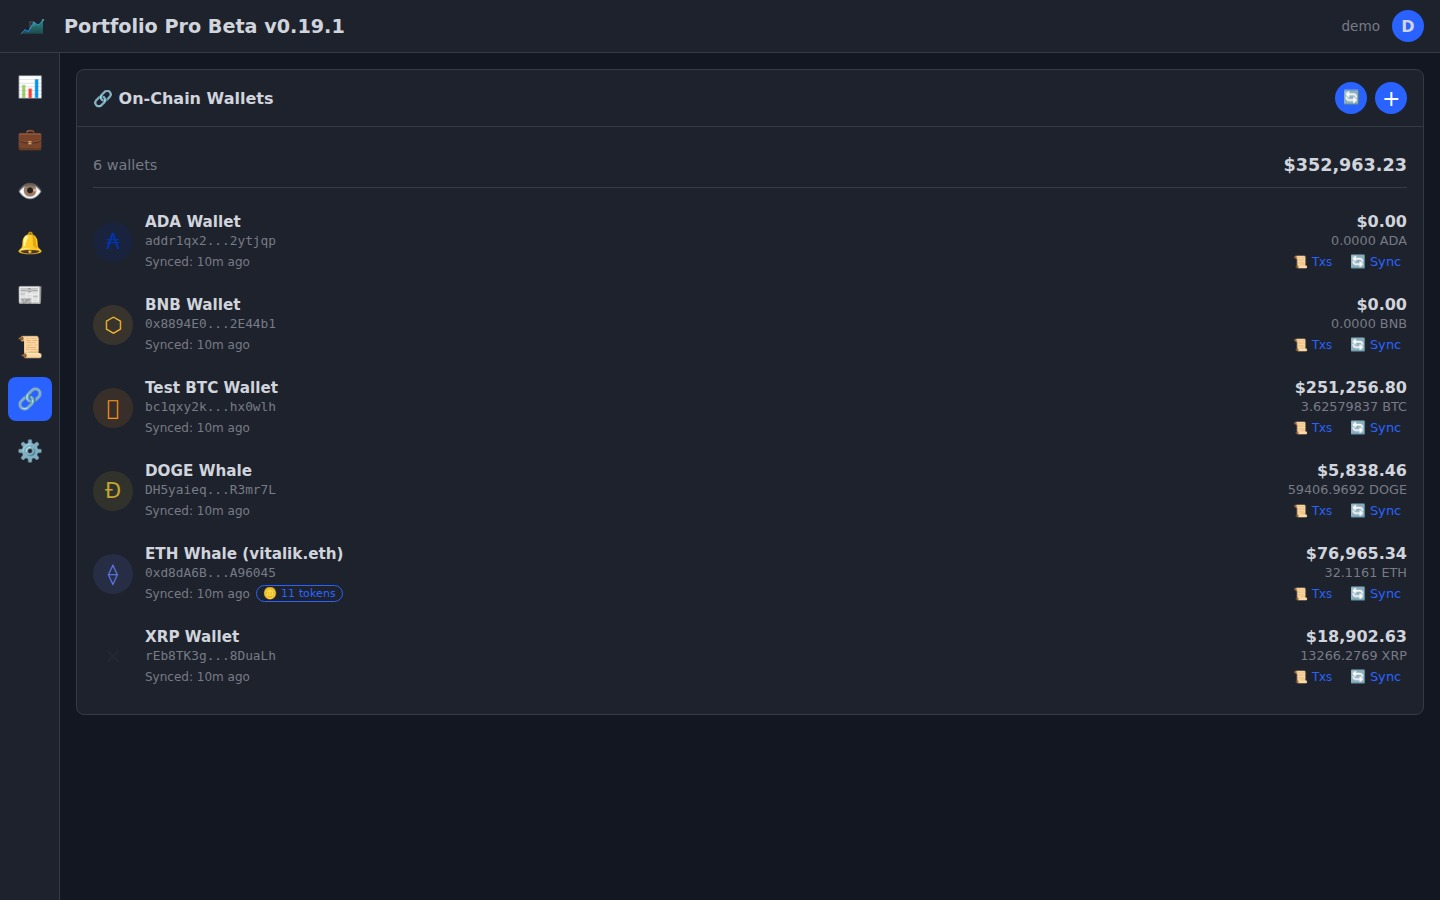
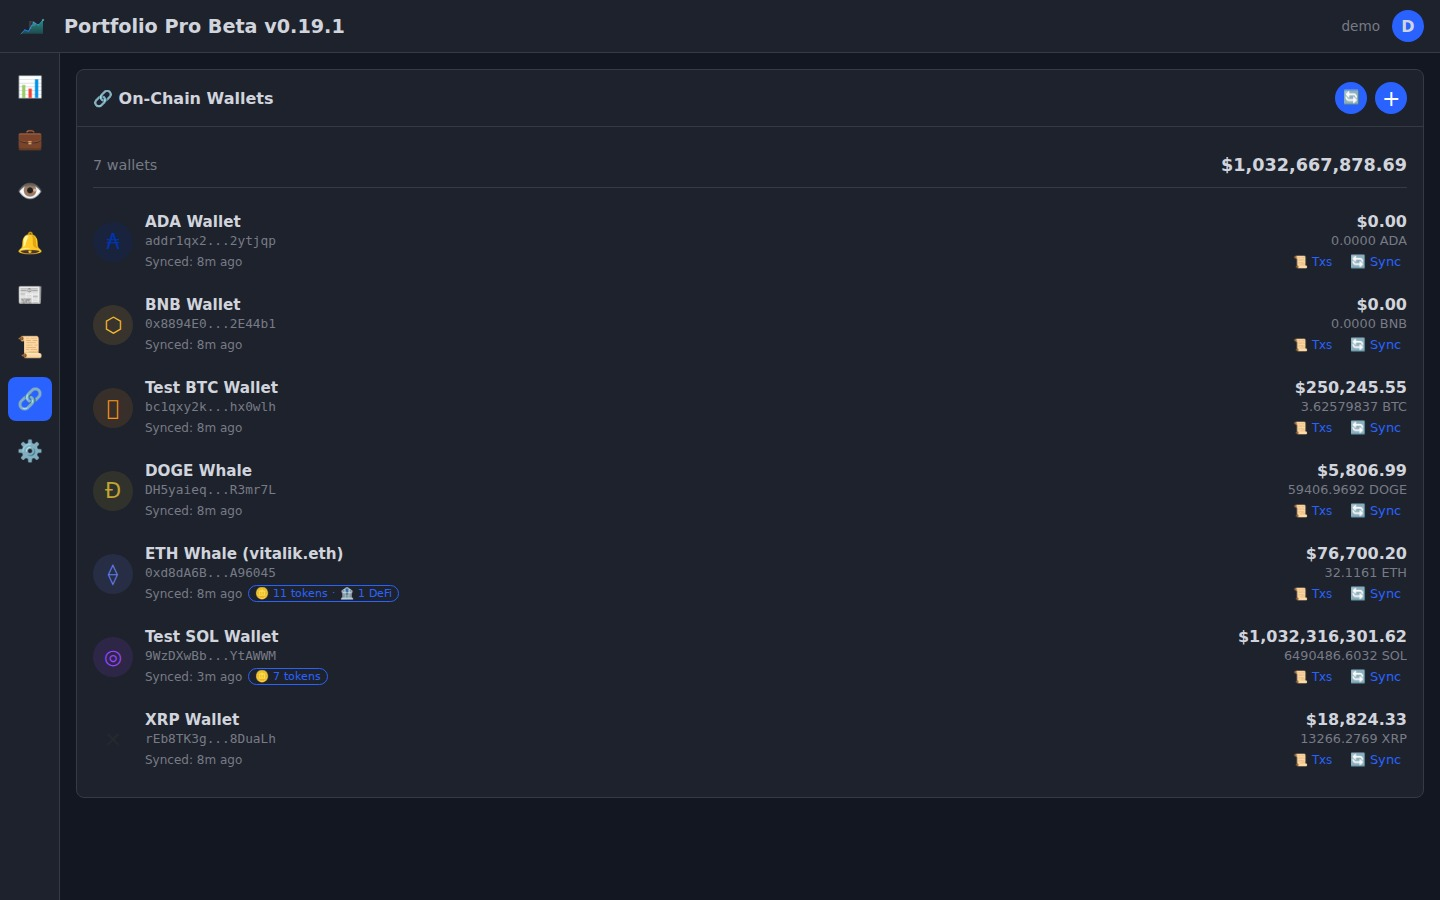
feat: SPL tokens + DeFi tracking complete, updated screenshots + roadmap

diff --git a/README.md b/README.md
@@ -217,9 +217,10 @@ The killer feature: connect any LLM to analyze your portfolio.
 - [x] Transaction history from block explorers (BTC, ETH)
 - [x] Multi-wallet aggregation (sum per chain)
 - [x] ERC-20 token tracking (20 popular tokens, direct RPC)
+- [x] SPL token tracking (Solana — 14 popular tokens)
 - [x] Token → position sync (wallet tokens auto-create positions)
-- [ ] DeFi position tracking
-- [ ] SPL token tracking (Solana)
+- [x] DeFi position tracking (Aave, Compound, Rocket Pool, Lido)
+
 
 ### 🏦 Broker Integrations
 - [ ] [Keytrade Bank API](https://developer.keytradebank.be/apis)
